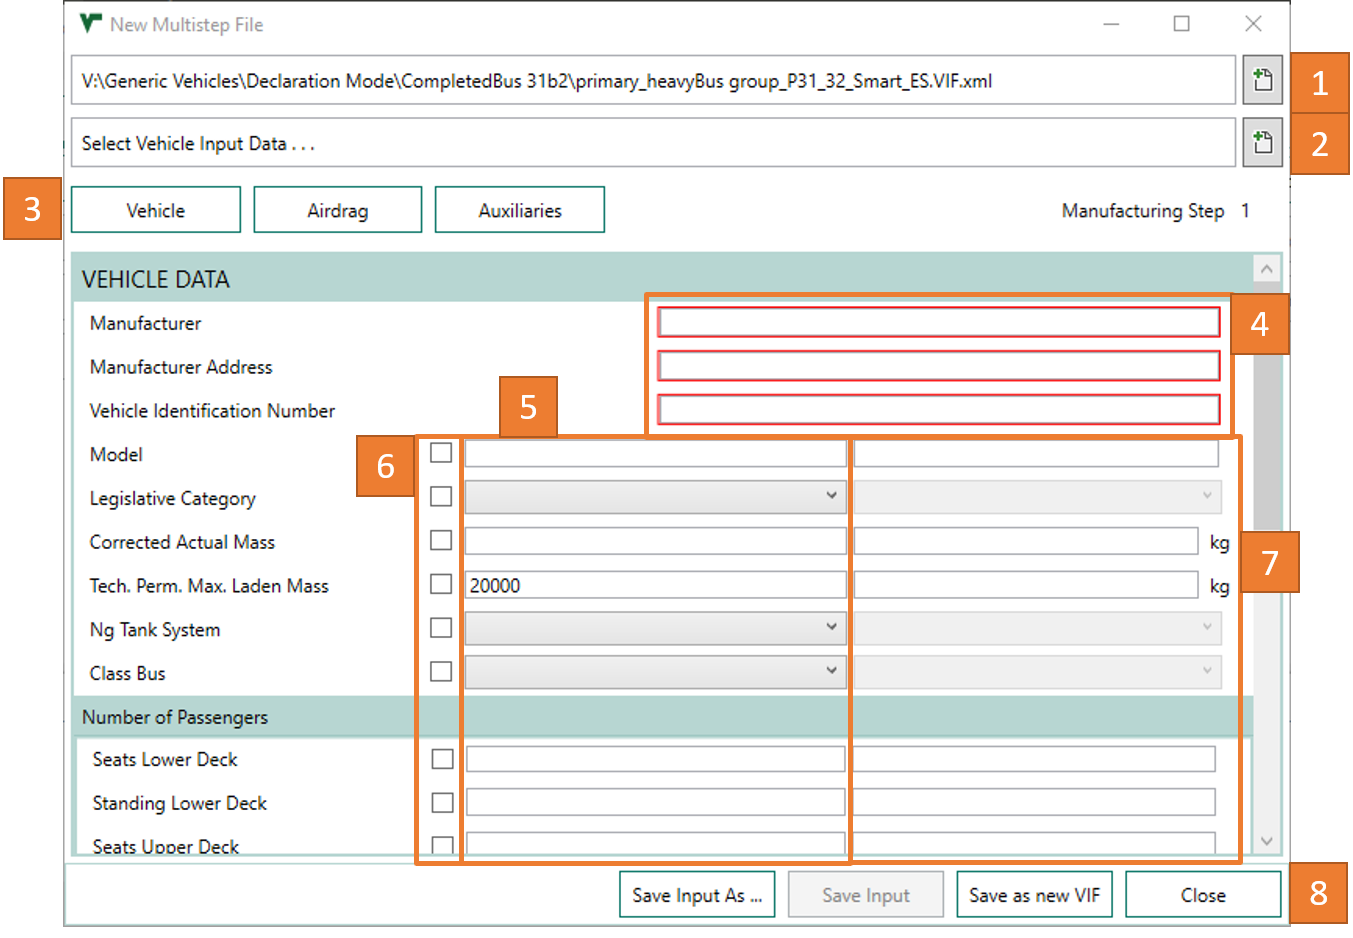
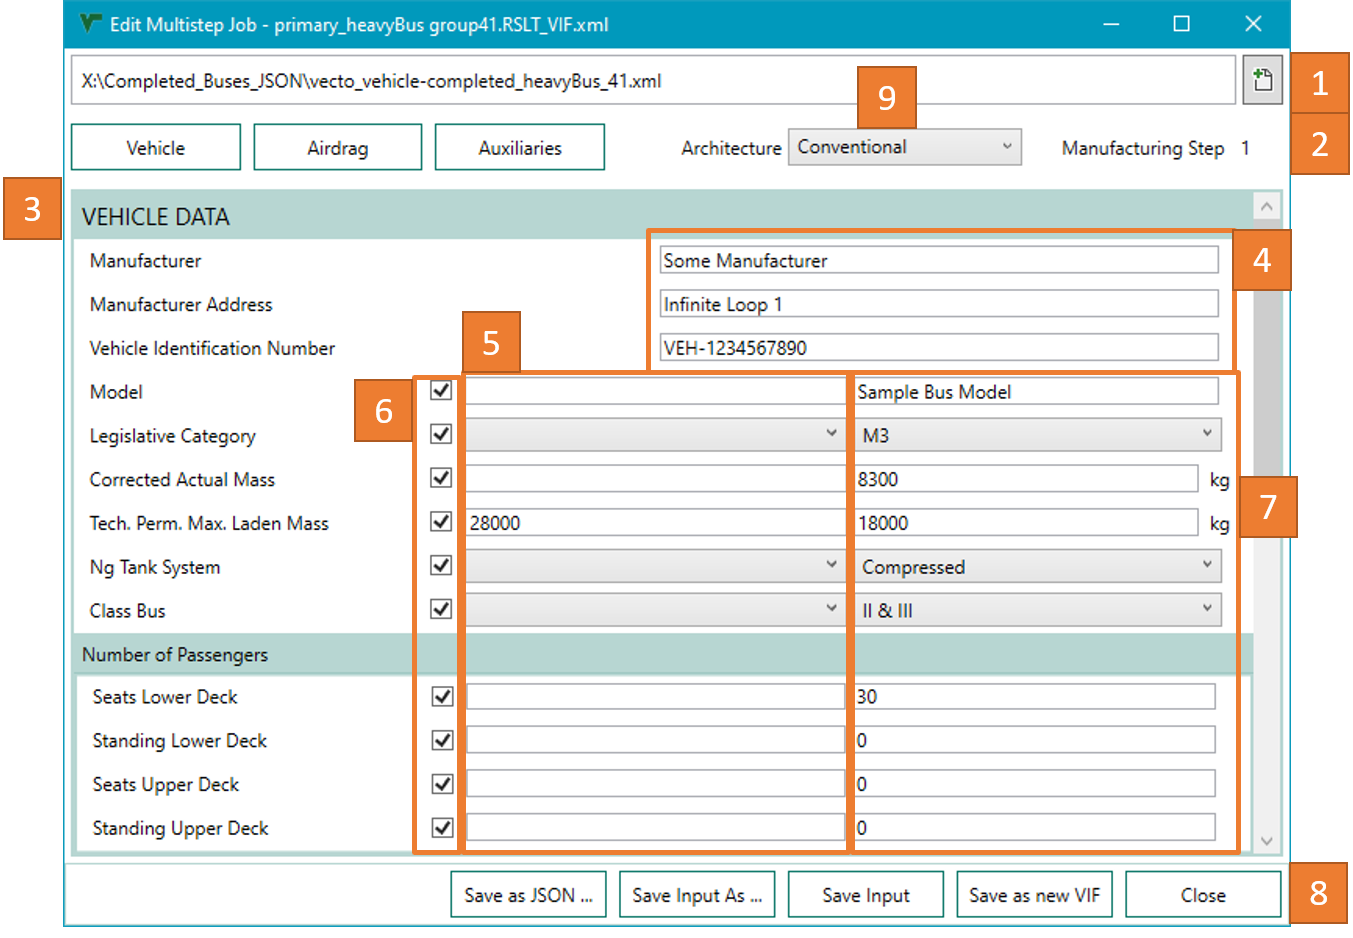
updated readme

diff --git a/Documentation/MultiStepTool/1-introduction/B_new_job.md b/Documentation/MultiStepTool/1-introduction/B_new_job.md
@@ -61,6 +61,10 @@ In this column the input data of the current step is displayed, and can be edite
 In case a mandatory input field is empty, or the value provided by the user is invalid the input element is highlighted with a red border. To remove an entry from the current step uncheck the corresponding checkbox.
 
 ### 8 Save and Close
+- **Save as JSON ...**:\
+    Saves the input data as completed bus job (JSON v7).
+    Not the created files consist of the paths of the VIF and the completed input, to update edited fields the input has to be saved additionaly.
+
 - **Save Input As ...**:\
     Saves the input of the current step to a new file.
 - **Save Input**: \
@@ -70,6 +74,9 @@ In case a mandatory input field is empty, or the value provided by the user is i
 - **Close**:\
     Closes the window. Note: As long as VECTO is open and the job is not removed from the job list, unsaved changes remain in the job for further editing.
 
+### 9 Architecture
+- Shows the powertrain architecture of the vehicle. In case a vif is loaded this field is automatically set according to the primary vehicle.
+  If the step input is created without a vif, the architecture has to be selected manually.
 
 ## New Primary Job with Interim Input - Special Case I
 If the manufacturer of the primary vehicle also adds certain components of the completed step (e.g., HVAC compressor), it is required that the VIF created at the primary step already contains the provided input parameters of the completed step. Therefore, at the primary step the input consists on the one hand of the input XML for the primary vehicle and on the other hand the XML with parts of the completed vehicle.
